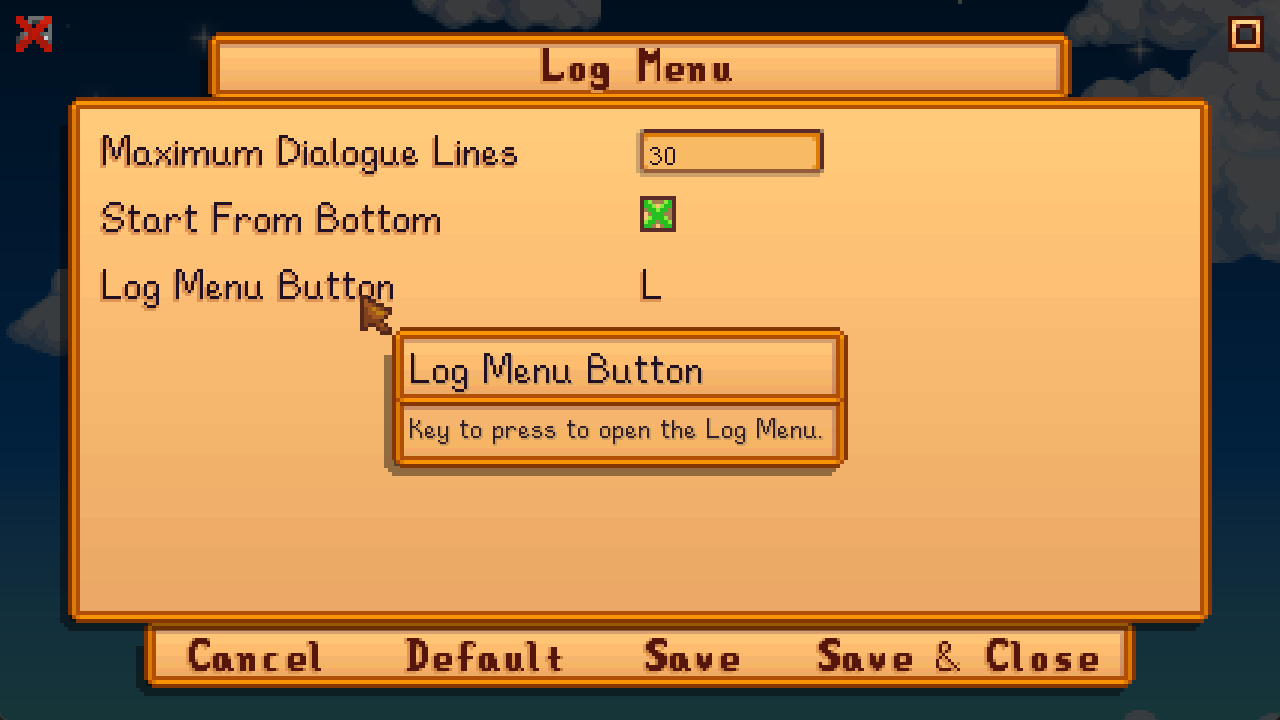
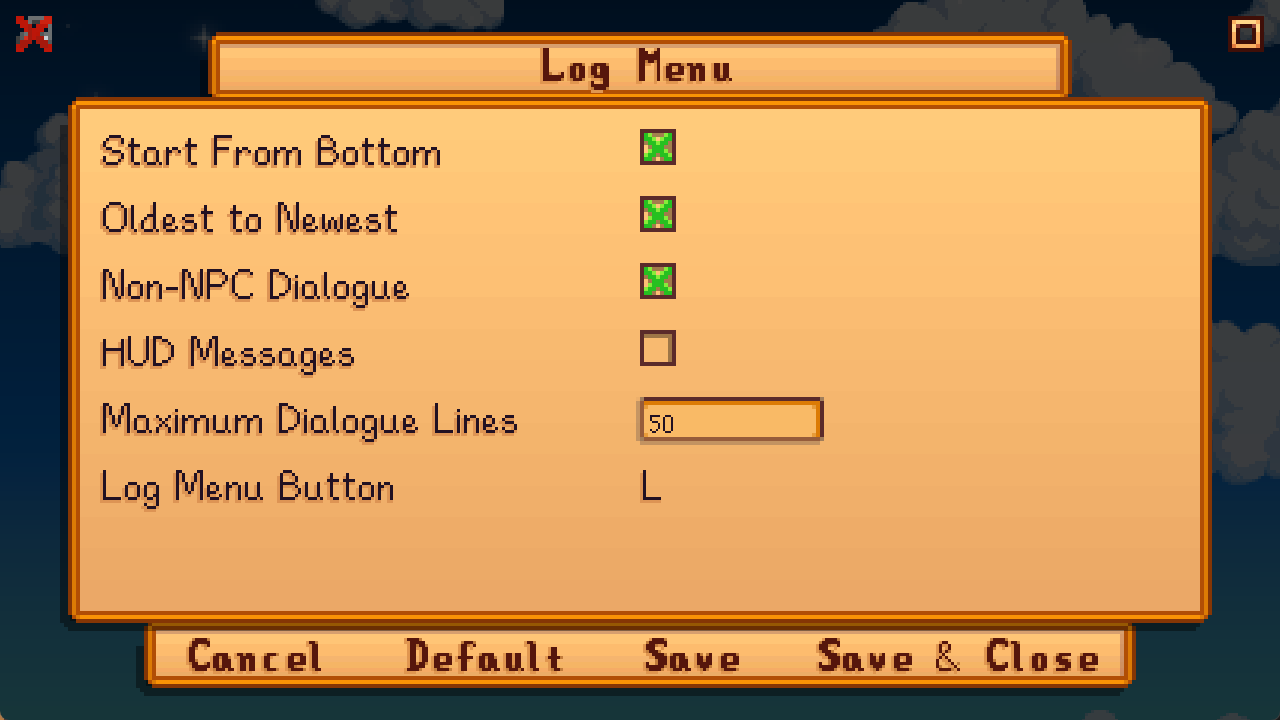
Adjusted Log Menu dimensions and portrait scaling. Updated README and associated images.

diff --git a/LogMenu/LogMenu.cs b/LogMenu/LogMenu.cs
@@ -120,11 +120,11 @@ namespace LogMenu
                         // Draw portrait background
                         b.Draw(currElem.portraitBackground,
                             new Vector2(
-                                button.bounds.X + button.bounds.Width - 128 - borderWidth / 2 - Game1.pixelZoom * 2 + 1,
-                                button.bounds.Y + button.bounds.Height / 2 - 64 + Game1.pixelZoom
+                                button.bounds.X + button.bounds.Width - 128 - borderWidth / 2 - Game1.pixelZoom * 2 - Game1.pixelZoom + 1,
+                                button.bounds.Y + button.bounds.Height / 2 - 64 + Game1.pixelZoom - 1
                             ),
                             new Rectangle(603, 414, 74, 74), Color.White, 0f, Vector2.Zero,
-                            height / button.bounds.Height / 2.13f, SpriteEffects.None, 0.88f
+                            height / button.bounds.Height / 2.07f, SpriteEffects.None, 0.88f
                         );
 
                         // Character portrait
@@ -135,10 +135,10 @@ namespace LogMenu
                         b.Draw(
                             portraitTexture,
                             new Vector2(
-                                button.bounds.X + button.bounds.Width - 128 - borderWidth / 2 + 2,
+                                button.bounds.X + button.bounds.Width - 128 - borderWidth / 2 - 1,
                                 button.bounds.Y + button.bounds.Height / 2 - 64 + Game1.pixelZoom * 3 + 1
                             ),
-                            portraitSource, Color.White, 0f, Vector2.Zero, height / button.bounds.Height / 2.12f, SpriteEffects.None, 0.88f);
+                            portraitSource, Color.White, 0f, Vector2.Zero, height / button.bounds.Height / 2.08f, SpriteEffects.None, 0.88f);
                     }
                 }
             }
@@ -166,7 +166,7 @@ namespace LogMenu
         {
             // Menu dimensions (1000x600, + border width)
             width = 1000 + borderWidth * 2;
-            height = 600 + borderWidth * 2;
+            height = 620 + borderWidth * 2;
 
             // Starting position of menu (top-left x/y coords)
             xPositionOnScreen = (Game1.uiViewport.Width - width) / 2;

diff --git a/LogMenu/ModEntry.cs b/LogMenu/ModEntry.cs
@@ -138,7 +138,6 @@ namespace LogMenu
                 if (prevAddedDialogue != currStr && db.transitioningBigger)
                 {
                     int portraitIndex = (db.characterDialogue is null || !db.isPortraitBox()) ? -1 : db.characterDialogue.getPortraitIndex();
-                    Monitor.Log(db.isQuestion + "", LogLevel.Debug);
                     if (db.isQuestion) portraitIndex = -2;
                     AddToDialogueList(
                         db.characterDialogue,

diff --git a/README.md b/README.md
@@ -1,15 +1,16 @@
 # Log Menu
-**Log Menu** is a Stardew Valley mod that adds a Log Menu to display previously seen in-game dialogue. This mod is inspired by the Log/History feature implemented in visual novel games and some RPGs.
+**Log Menu** is a Stardew Valley mod that adds a Log Menu to display previously seen in-game dialogue. This mod is inspired by the Log/History feature implemented in visual novel games and some RPGs. If you accidentally skipped through a line of dialogue or just want to look at it again, this is the mod for you! 😄
 
 ![](preview.gif)
 
 ## Install
-1. [Install the latest version of SMAPI](https://smapi.io/).
-2. [Install this mod from Nexus Mods](https://www.nexusmods.com/stardewvalley/mods/19919).
-3. Run the game using SMAPI.
+1. [Install the latest version of SMAPI.](https://smapi.io/)
+2. [Install this mod from Nexus Mods.](https://www.nexusmods.com/stardewvalley/mods/19919)
+3. (optional) [Install Generic Mod Config Menu from Nexus Mods](https://www.nexusmods.com/stardewvalley/mods/5098) for in-game mod configuration editing (more info below).
+4. Run the game using SMAPI.
 
 ## Usage
-Press `L` to display the Log Menu. The 30 most recent dialogue lines will be shown.
+Press `L` to display the Log Menu. The 50 most recent dialogue lines will be shown. The dialogue lines shown are configurable (more info below) and include lines both spoken and not spoken by NPCs, in-game dialogue questions, as well as HUD messages. In addition, this mod supports UI changes, custom dialogue lines, and custom NPCs.
 
 ## Configuration
 ### In-Game
@@ -18,18 +19,19 @@ If you have [Generic Mod Config Menu](https://www.nexusmods.com/stardewvalley/mo
 ![](generic-mod-config-menu.png)
 
 ### `config.json`
-A `config.json` file will be created in the mod folder after it is run for the first time. You can open that file in a text editor to configure the mod. If you make a mistake, you can delete the `config.json` file and it will create a default one.
+A `config.json` file will be created in the mod folder after it is run for the first time. You can open that file in a text editor to configure the mod. If you make a mistake, you can delete the `config.json` file and a new one will be created next time the game is launched.
 
-Changable settings:
+#### Changable Settings
+
 <table>
   <tr>
     <th>Field</th>
     <th>Description</th>
-    <th>Default Value</th>
+    <th>Default</th>
   </tr>
   <tr>
     <td><code>StartFromBottom</code></td>
-    <td>Whether to start from the bottom of the Log Menu.</td>
+    <td>Whether the messages at the bottom or top of the menu should be displayed upon opening the Log Menu.</td>
     <td><code>true</code></td>
   </tr>
   <tr>
@@ -44,18 +46,18 @@ Changable settings:
   </tr>
   <tr>
     <td><code>ToggleHUDMessages</code></td>
-    <td>Option to log HUD messages.</td>
+    <td>Whether to log pop-up HUD messages (e.g., "New Journal Entry"). Does not include HUD messages from collecting items.</td>
     <td><code>false</code></td>
   </tr>
   <tr>
     <td><code>LogLimit</code></td>
     <td>The maximum number of lines to display in the Log Menu.</td>
-    <td>30</td>
+    <td>50</td>
   </tr>
   <tr>
     <td><code>LogButton</code></td>
     <td>The button to press in order to open the Log Menu.</td>
-    <td><code>L</code></td>
+    <td>L</td>
   </tr>
 </table>
 
@@ -63,8 +65,12 @@ Changable settings:
 Log Menu is compatible with Stardew Valley 1.5.6 on Linux, MacOS, and Windows.
 
 ## To-Do
+Last three on the list below are complicated (and/or am I too lazy to fix/implement them) and will likely take a while to be implemented, if at all.
+
 - ~~Remove empty strings from dialogue list (i.e., when a dialogue box with a question has responses but no text)~~
 - ~~Implement config option to log HUD messages~~
+- ~~Support changing portrait backgrounds~~
+- ~~Hide character portrait if portrait not visible in original dialogue box~~
 - Implement config option to log dialogue from skipped cutscenes
 - Allow player to open Log Menu while a dialogue box is open and return to the dialogue box when the log menu is closed
 - When player selects response to question, update Log Menu to make the selected response bold
